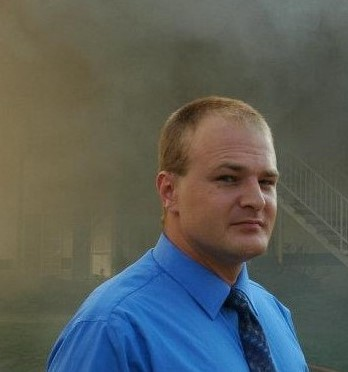
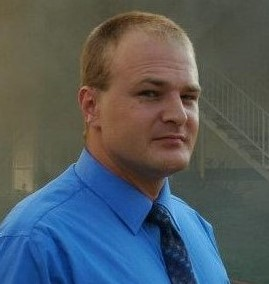
fixed responsive issues

diff --git a/about.html b/about.html
@@ -32,12 +32,13 @@
         </div>
       </div>
     </nav>
-    <div  class="bg">
+    <div  class="bg" class="img-fluid" >
 
-        <div class="image">
-          <img src="images/profile_edit.jpg" style="position: absolute; left: 3%;bottom: 20%;\\">
-        </div>
-          <div class="textbox">
+        <div class="picture">
+          <img src="images/profile_edit.jpg" > 
+          </div>
+          <div class="textbox" >
+            
           <p1>Lorem ipsum dolor sit amet consectetur adipisicing elit. Maiores cupiditate sed reprehenderit vitae ea pariatur, praesentium assumenda culpa, earum ratione nemo ad mollitia! Aspernatur incidunt molestias dicta sequi maxime! Quod. Lorem ipsum dolor sit amet consectetur adipisicing elit. Ea deleniti adipisci repellendus dolorem rem eveniet debitis necessitatibus, cupiditate soluta nam aperiam modi. Quae officiis non voluptates quidem, repudiandae rem dignissimos!</p1>
           </div>
         
@@ -67,5 +68,40 @@ background-position: center;
 background-repeat: no-repeat;
 background-size: cover;
 }
+.textbox {
+  height: 35%;  
+  width: 55%;
+  border: 15px;
+  padding: 1%;
+  background-color: lightskyblue;
+  position: absolute;
+bottom: -10%;
+left: 15%;
+  
+}
+.picture img{
+top: 35%;
+position: absolute;
+left: 5%;
+width: 25%;
+}
+@media screen and (max-width: 1120px) {
+  .picture img{
+    width:35%
+  }}
+  @media screen and (max-width: 800px){
+    .picture img{
+      width: 48%;
+    }
+  }
+  @media screen and (max-width: 550px){
+    .picture img{
+      width: 65%;
+    }
+  }
+  
+
+
+
 </style>
 </html>

diff --git a/index.html b/index.html
@@ -37,20 +37,23 @@
     </div>
 
     <div class="container" ;>
-      <div class="img-responsive">
-        <div class="row">
-          <div class="col col-md-6">
+    
+      <div class="row">
+        <div class="col-md-6">
+          <div class="thumbnail">
+            <a img href="https://geertza.github.io/homework1/">
+              <img src="./images/ad.jpg" style="width:100%">
+              </a>
+            
+          </div>
+        </div>
+          <div class="col-md-6">
             <div class="thumbnail">
-              <href="https://geertza.github.io/homework1/" ></href><img src="./images/ad.jpg" style="width:100%">
+              <img src="./images/image3.jpg" style="width:100%">
             </div>
-          </div>
-            <div class="col col-md-6">
-              <div class="thumbnail">
-                <img src="./images/image3.jpg" style="width:100%">
-              </div>
-            </div>
-          </div>
-        </div> 
+          
+        </div>
+      </div> 
             <div class="row">
               <div class="col-md-6">
                 <div class="thumbnail">
@@ -61,7 +64,7 @@
                   <div class="thumbnail">
                     <img src="./images/image2.jpg" style="width:100%">
                   </div>
-                </div>
+                
               </div>
             </div> 
             <div class="row">

diff --git a/assets/style.css b/assets/style.css
@@ -35,12 +35,7 @@ padding: 20px;
     border-width: 20px;
     padding: 10%;
 }
-.textbox {
-    width: 300px;
-  border: 15px;
-  padding: 50px;
-  margin: 20px;
-  background-color: steelblue;
-  position: absolute;
-  left: 25%;
-}
+.responsive {
+    width: 100%;
+    height: auto;
+  }
